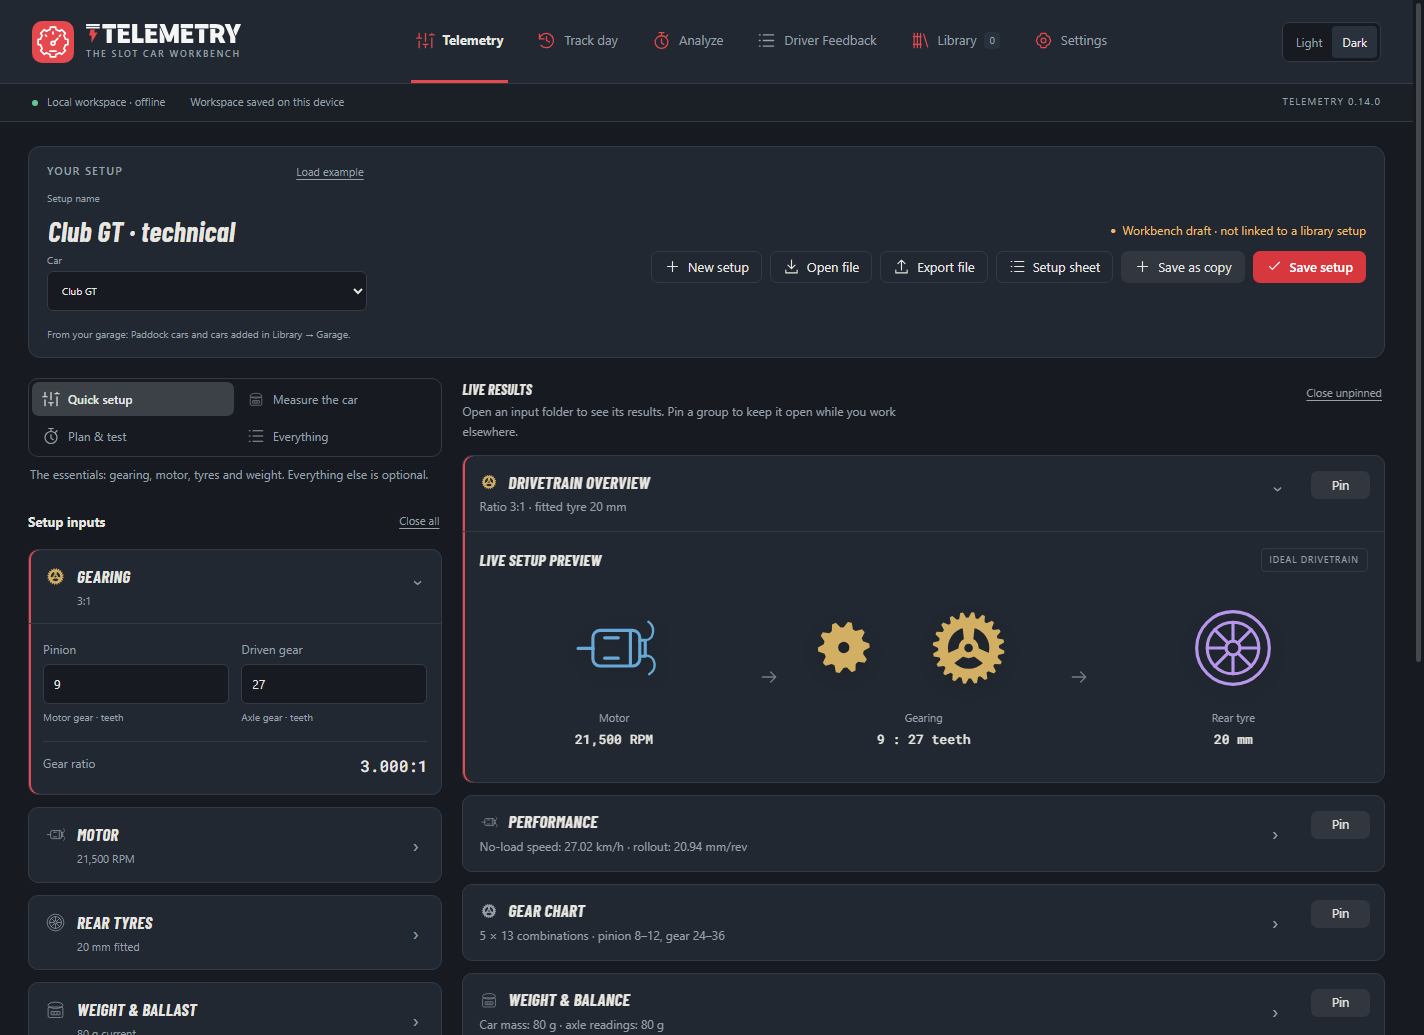
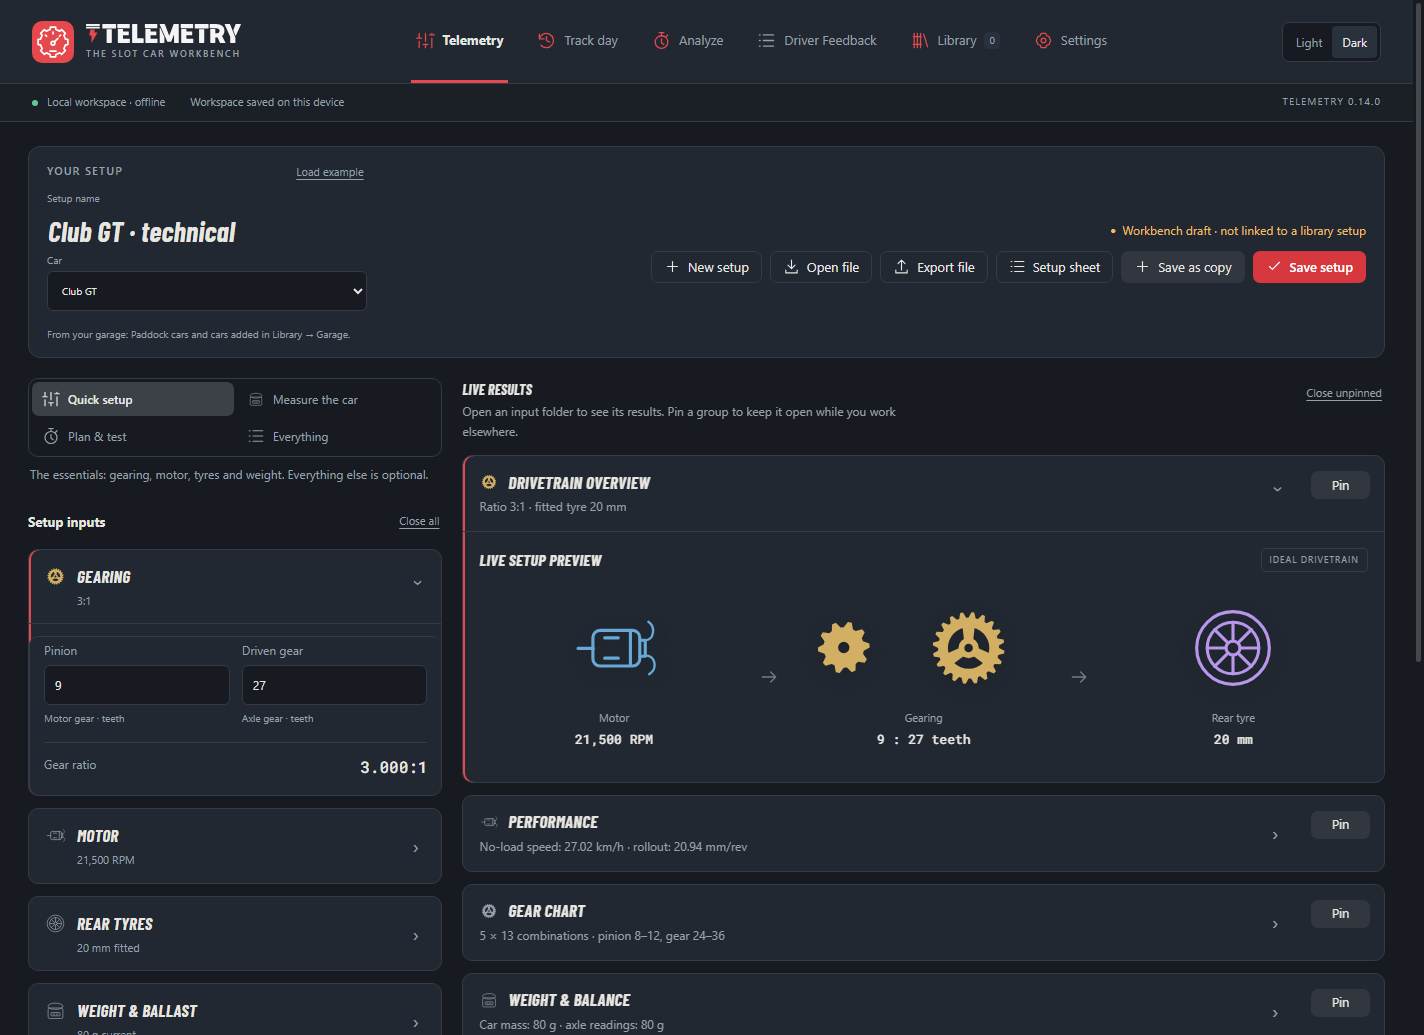
Restyle clean-up: every table a Race Sheet, calm help, no coloured edges
The last step of the SlotForge Restyle, in restyle-finish.css (loaded
last):

- Every .table-wrap table except the gear chart gets the Race Sheet
  look: small grey capitals over the columns, quiet rows, hover and a
  grey selected row.
- Calculations explained as a calm help reader: topics as grey pill
  chips, the open one lifted with its icon in colour; formula, example
  and topic panels in plain boxes.
- The remaining category edges go: input panels, results tables,
  calculation details, chassis inputs and results, the ballast planner;
  A useful starting point, Ready to look deeper? and chassis snapshots
  become quiet boxes with a thin accent rule.
- README pictures remade.

All 244 unit, 3 interop and 21 desktop suites pass.

diff --git a/renderer/index.html b/renderer/index.html
@@ -1,4 +1,4 @@
-<!doctype html><html lang="en" data-theme="dark" data-tone="dark"><head><meta charset="utf-8"><meta name="viewport" content="width=device-width,initial-scale=1"><meta http-equiv="Content-Security-Policy" content="default-src 'self'; script-src 'self'; style-src 'self'; img-src 'self' data:; connect-src 'none'; object-src 'none'; base-uri 'none'; form-action 'none'"><title>SlotForge Telemetry</title><link rel="icon" href="../assets/icon.svg"><link rel="stylesheet" href="styles.css"><link rel="stylesheet" href="themes.css"><link rel="stylesheet" href="performance.css"><link rel="stylesheet" href="pages.css"><link rel="stylesheet" href="category-design.css"><link rel="stylesheet" href="race.css"><link rel="stylesheet" href="driver-feedback.css"><link rel="stylesheet" href="input-help.css"><link rel="stylesheet" href="workbench.css"><link rel="stylesheet" href="trackday.css"><link rel="stylesheet" href="garage.css"><link rel="stylesheet" href="restyle.css"><link rel="stylesheet" href="settings-sheet.css"><link rel="stylesheet" href="analyze-rail.css"><link rel="stylesheet" href="library-shell.css"><link rel="stylesheet" href="workbench-restyle.css"></head><body>
+<!doctype html><html lang="en" data-theme="dark" data-tone="dark"><head><meta charset="utf-8"><meta name="viewport" content="width=device-width,initial-scale=1"><meta http-equiv="Content-Security-Policy" content="default-src 'self'; script-src 'self'; style-src 'self'; img-src 'self' data:; connect-src 'none'; object-src 'none'; base-uri 'none'; form-action 'none'"><title>SlotForge Telemetry</title><link rel="icon" href="../assets/icon.svg"><link rel="stylesheet" href="styles.css"><link rel="stylesheet" href="themes.css"><link rel="stylesheet" href="performance.css"><link rel="stylesheet" href="pages.css"><link rel="stylesheet" href="category-design.css"><link rel="stylesheet" href="race.css"><link rel="stylesheet" href="driver-feedback.css"><link rel="stylesheet" href="input-help.css"><link rel="stylesheet" href="workbench.css"><link rel="stylesheet" href="trackday.css"><link rel="stylesheet" href="garage.css"><link rel="stylesheet" href="restyle.css"><link rel="stylesheet" href="settings-sheet.css"><link rel="stylesheet" href="analyze-rail.css"><link rel="stylesheet" href="library-shell.css"><link rel="stylesheet" href="workbench-restyle.css"><link rel="stylesheet" href="restyle-finish.css"></head><body>
 <header class="app-header"><a class="brand" href="#telemetry"><span class="brand-mark"></span><span class="brand-copy"><span class="brand-wordmark" role="img" aria-label="SlotForge Telemetry"><img class="brand-wordmark-light" src="../assets/telemetry-wordmark-light.svg" alt="" width="698" height="87"><img class="brand-wordmark-dark" src="../assets/telemetry-wordmark-dark.svg" alt="" width="698" height="87"></span><small>THE SLOT CAR WORKBENCH</small></span></a><nav class="main-nav" aria-label="Main navigation"><a href="#telemetry" data-route="telemetry" >Telemetry</a><a href="#analyze" data-route="analyze" >Analyze</a><a href="#library" data-route="library" id="library-button">Library<small id="library-count">0</small></a><a href="#settings" data-route="settings" >Settings</a></nav><div class="theme-switch" role="group" aria-label="Colour mode"><button data-tone-choice="light">☀ Light</button><button data-tone-choice="dark">☾ Dark</button></div></header>
 <div class="workspace-bar"><span id="paddock-global-status"><i class="dot"></i> Local workspace · offline</span><span id="save-state" role="status">Ready</span><span class="version">TELEMETRY 0.14.0</span></div><main>
 <section data-page="telemetry"><div class="page-head"><div><p class="eyebrow">YOUR WORKBENCH</p><h1>Telemetry</h1><p>Build your setup. See the numbers come together.</p></div><div class="actions"><button class="btn" id="new-setup">New setup</button><button class="btn" id="open-setup">Open file</button><button class="btn" id="save-setup">Export file</button><button class="btn" id="setup-sheet" title="Download a printable one-page sheet of this setup">Setup sheet</button><button class="btn" id="save-copy">Save as copy</button><button class="btn primary" id="save-library">Save setup</button></div></div><p id="library-workspace-status" class="library-workspace-status" role="status"></p><input id="setup-file" type="file" accept=".json,application/json" hidden>

diff --git a/renderer/restyle-finish.css b/renderer/restyle-finish.css
@@ -1,0 +1,29 @@
+/* SlotForge Restyle clean-up, loaded last: the remaining coloured edges become quiet boxes, Calculations explained
+   reads like a calm help reader, and every table is a Race Sheet. Colour stays on icons (Paint). */
+
+/* ---------- Leftover coloured edges ---------- */
+.input-column .panel[data-category]{border-top:1px solid var(--line);border-left:1px solid var(--line);background:var(--panel)}
+.telemetry-results .table-wrap,.calculation-detail,.setup-input-group.panel,.chassis-inputs,.chassis-result,#ballast-planner,.help-topic-panel{border-top:1px solid var(--line)}
+/* Notes and hints: a quiet box with a thin accent rule. */
+.next-step,.assumptions,.chassis-snapshot{border:1px solid var(--line);border-left:1px solid var(--line);box-shadow:inset 2px 0 0 var(--accent);background:color-mix(in srgb,var(--ink) 3%,var(--panel))}
+.extra-inputs section{border-left:1px solid var(--line)}
+
+/* ---------- Help reader: Calculations explained ---------- */
+.help-topics{gap:6px}
+.help-topics a{min-height:30px;padding:4px 12px;gap:7px;border:1px solid transparent;border-left-width:1px;border-radius:16px;background:color-mix(in srgb,var(--ink) 7%,var(--btn-mix,var(--panel)));box-shadow:none;color:color-mix(in srgb,var(--ink) 85%,var(--muted));font-size:12.5px}
+.help-topics a:hover{background:color-mix(in srgb,var(--ink) 12%,var(--btn-mix,var(--panel)));border-color:transparent}
+.help-topics a[aria-current=page]{background:color-mix(in srgb,var(--ink) 16%,var(--btn-mix,var(--panel)));border-color:transparent;box-shadow:none;color:var(--ink);font-weight:600}
+.help-topics a>.sf-icon{width:15px;height:15px;color:var(--muted)}
+.help-topics a[aria-current=page]>.sf-icon{color:var(--category,var(--accent))}
+.help-example{border-left-color:var(--line)}
+.help-formula{border-color:var(--line);background:color-mix(in srgb,var(--ink) 3%,var(--bg))}
+
+/* ---------- Race Sheet for every table ---------- */
+.table-wrap{border-radius:10px}
+.table-wrap table:not(.gear-chart){background:none}
+.table-wrap table:not(.gear-chart) thead th{padding:8px 12px;border-bottom:1px solid var(--line);background:none;color:var(--muted);font:600 10px/1.3 'Segoe UI',system-ui,sans-serif;letter-spacing:.12em;text-transform:uppercase;white-space:nowrap}
+.table-wrap table:not(.gear-chart) tbody th{background:none;color:var(--ink);font-weight:600}
+.table-wrap table:not(.gear-chart) :is(tbody td,tbody th){padding:9px 12px;border-bottom:1px solid color-mix(in srgb,var(--line) 65%,transparent)}
+.table-wrap table:not(.gear-chart) tbody tr:last-child>:is(td,th){border-bottom:0}
+.table-wrap table:not(.gear-chart) tbody tr:hover>:is(td,th){background:color-mix(in srgb,var(--ink) 3%,transparent)}
+.table-wrap table:not(.gear-chart) tbody tr.selected>:is(td,th){background:color-mix(in srgb,var(--ink) 8%,var(--panel))}

diff --git a/CHANGELOG.md b/CHANGELOG.md
@@ -57,6 +57,12 @@ Telemetry starts to follow the new shared SlotForge look of Timing and Paddock (
 - Optional sections open from plain names with a small arrow instead of blue links. *Next useful question* and *How does your car behave?* (on the workbench) are quiet boxes with a thin accent line.
 - In the top menu, Driver Feedback is marked like the other pages when it is open.
 
+### Finishing touches
+
+- **Every table** has the same quiet look: small grey capitals over the columns, thin lines between rows and a light highlight on hover. The selected setup in the Library is lifted in grey. The gear chart keeps its own grid.
+- **Calculations explained** reads more calmly: the topics are small grey chips, with the open topic lifted and its icon in colour. Formulas, examples and limits sit in plain boxes.
+- The last coloured edges are gone. *A useful starting point*, *Ready to look deeper?*, chassis snapshots and the ballast planner are quiet boxes, some with a thin accent line.
+
 ## 0.14.0 — 17 November 2026 · Track day, Garage and backups
 
 ### Faster with a full library
